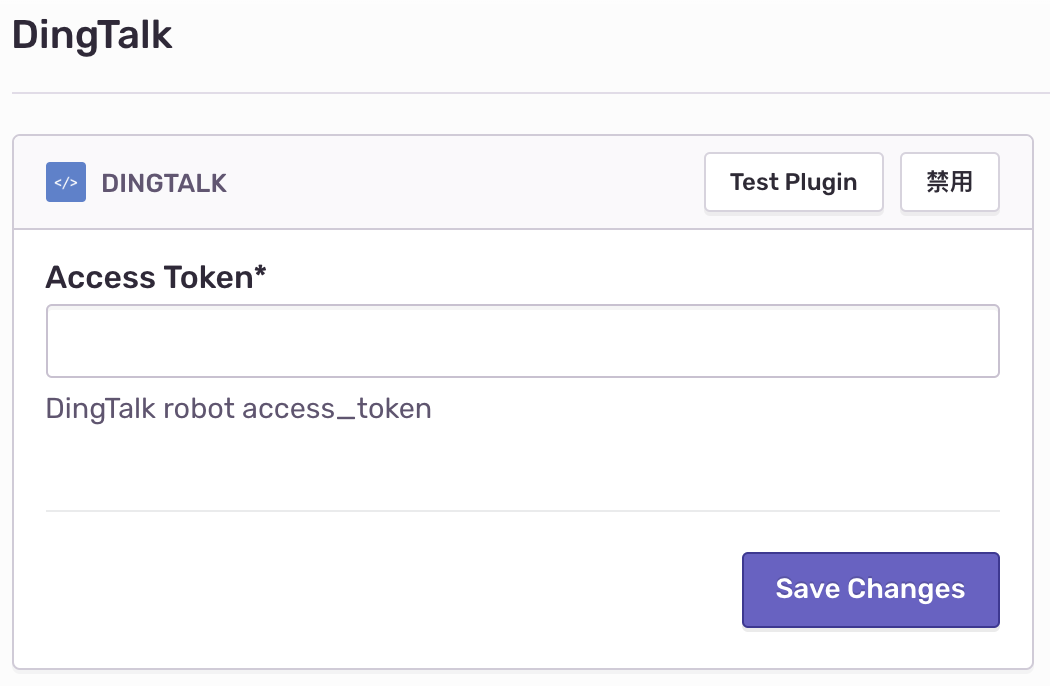
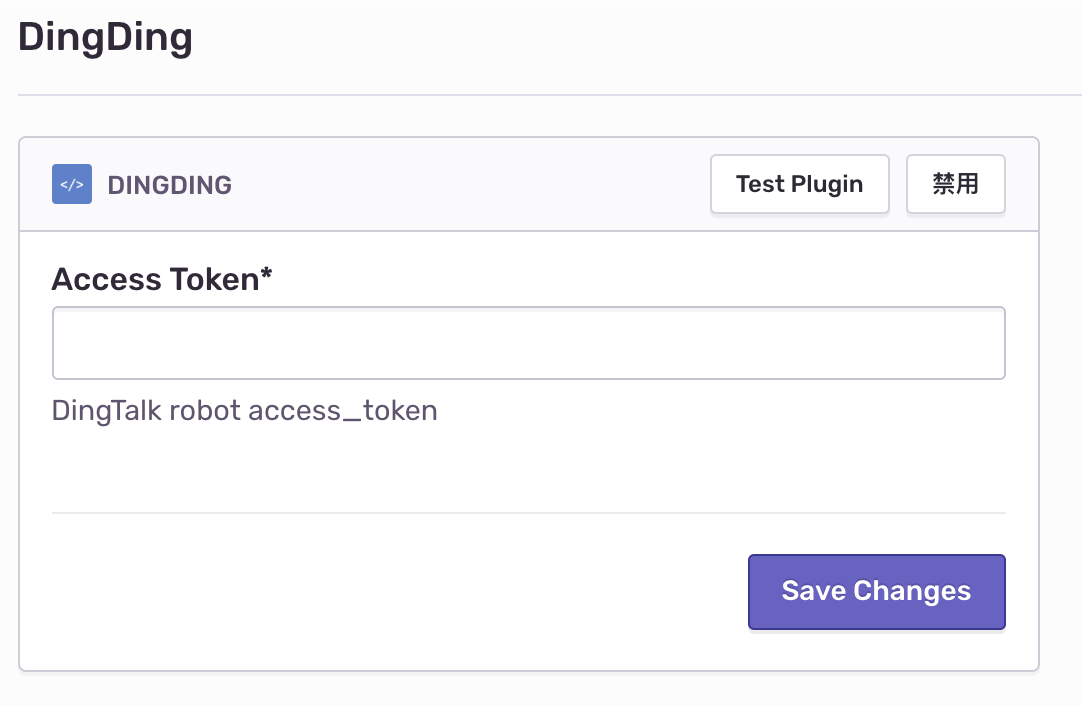
0.0.1

Changed region(s): [[0.0, 0.1837, 1.0, 0.9796], [0.6705, 0.7653, 0.9752, 0.9184], [0.0, 0.0306, 0.1829, 0.0918]]

diff --git a/src/sentry_dingding/plugin.py b/src/sentry_dingding/plugin.py
@@ -5,30 +5,30 @@ import json
 import requests
 from sentry.plugins.bases.notify import NotificationPlugin
 
-import sentry_dingtalk
-from .forms import DingTalkOptionsForm
+import sentry_dingding
+from .forms import DingDingOptionsForm
 
 DingTalk_API = "https://oapi.dingtalk.com/robot/send?access_token={token}"
 
 
-class DingTalkPlugin(NotificationPlugin):
+class DingDingPlugin(NotificationPlugin):
     """
-    Sentry plugin to send error counts to DingTalk.
+    Sentry plugin to send error counts to DingDing.
     """
     author = 'ansheng'
-    author_url = 'https://github.com/anshengme/sentry-dingtalk'
-    version = sentry_dingtalk.VERSION
-    description = 'Send error counts to DingTalk.'
-    slug = 'DingTalk'
-    title = 'DingTalk'
+    author_url = 'https://github.com/anshengme/sentry-dingding'
+    version = sentry_dingding.VERSION
+    description = 'Send error counts to DingDing.'
+    slug = 'DingDing'
+    title = 'DingDing'
     conf_key = slug
     conf_title = title
     resource_links = [
-        ('Source', 'https://github.com/anshengme/sentry-dingtalk'),
-        ('Bug Tracker', 'https://github.com/anshengme/sentry-dingtalk/issues'),
-        ('README', 'https://github.com/anshengme/sentry-dingtalk/blob/master/README.md'),
+        ('Source', 'https://github.com/anshengme/sentry-dingding'),
+        ('Bug Tracker', 'https://github.com/anshengme/sentry-dingding/issues'),
+        ('README', 'https://github.com/anshengme/sentry-dingding/blob/master/README.md'),
     ]
-    project_conf_form = DingTalkOptionsForm
+    project_conf_form = DingDingOptionsForm
 
     def is_configured(self, project):
         """

diff --git a/setup.py b/setup.py
@@ -1,22 +1,20 @@
 #!/usr/bin/env python
 from setuptools import setup, find_packages
 
-from sentry_dingtalk import VERSION, NAME
-
 with open("README.md", "r") as fh:
     long_description = fh.read()
 
 setup(
-    name=NAME,
-    version=VERSION,
+    name="sentry-dingding",
+    version='0.0.1',
     author='ansheng',
     author_email='ianshengme@gmail.com',
-    url='https://github.com/anshengme/sentry-dingtalk',
-    description='A Sentry extension which send errors stats to DingTalk',
+    url='https://github.com/anshengme/sentry-dingding',
+    description='A Sentry extension which send errors stats to DingDing',
     long_description=long_description,
     long_description_content_type="text/markdown",
     license='MIT',
-    keywords='sentry dingtalk',
+    keywords='sentry dingding',
     include_package_data=True,
     zip_safe=False,
     package_dir={'': 'src'},
@@ -27,7 +25,7 @@ setup(
     ],
     entry_points={
         'sentry.plugins': [
-            'sentry_dingtalk = sentry_dingtalk.plugin:DingTalkPlugin'
+            'sentry_dingding = sentry_dingding.plugin:DingDingPlugin'
         ]
     },
     classifiers=[

diff --git a/src/sentry_dingding/forms.py b/src/sentry_dingding/forms.py
@@ -3,7 +3,7 @@
 from django import forms
 
 
-class DingTalkOptionsForm(forms.Form):
+class DingDingOptionsForm(forms.Form):
     access_token = forms.CharField(
         max_length=255,
         help_text='DingTalk robot access_token'

diff --git a/src/sentry_dingding/__init__.py b/src/sentry_dingding/__init__.py
@@ -1,0 +1,3 @@
+# coding: utf-8
+
+VERSION = "0.0.1"

diff --git a/README.md b/README.md
@@ -1,2 +1,30 @@
-# Sentry-DingTalk
+# Sentry-DingDing
 
+`Sentry`的`钉钉`通知插件.
+
+## 安装
+
+如果是以Python的方式运行，使用`pip`安装即可
+
+```bash
+$ pip install sentry-dingding
+```
+
+如果是以docker的方式运行，进入容器然后在`pip`安装
+
+```bash
+
+```
+
+## 使用
+
+在所有集成页面找到`DingDing`插件，启用，并设置`Access Token`
+
+![plugin](./docs/images/options.png)
+
+在插件上使用`Test Plugin`进行测试，当配置好`Access Token`后，在钉钉群内会得到以下警告
+
+
+![plugin](./docs/images/dingding.png)
+
+点击`href`按钮，打开异常详情页面。
